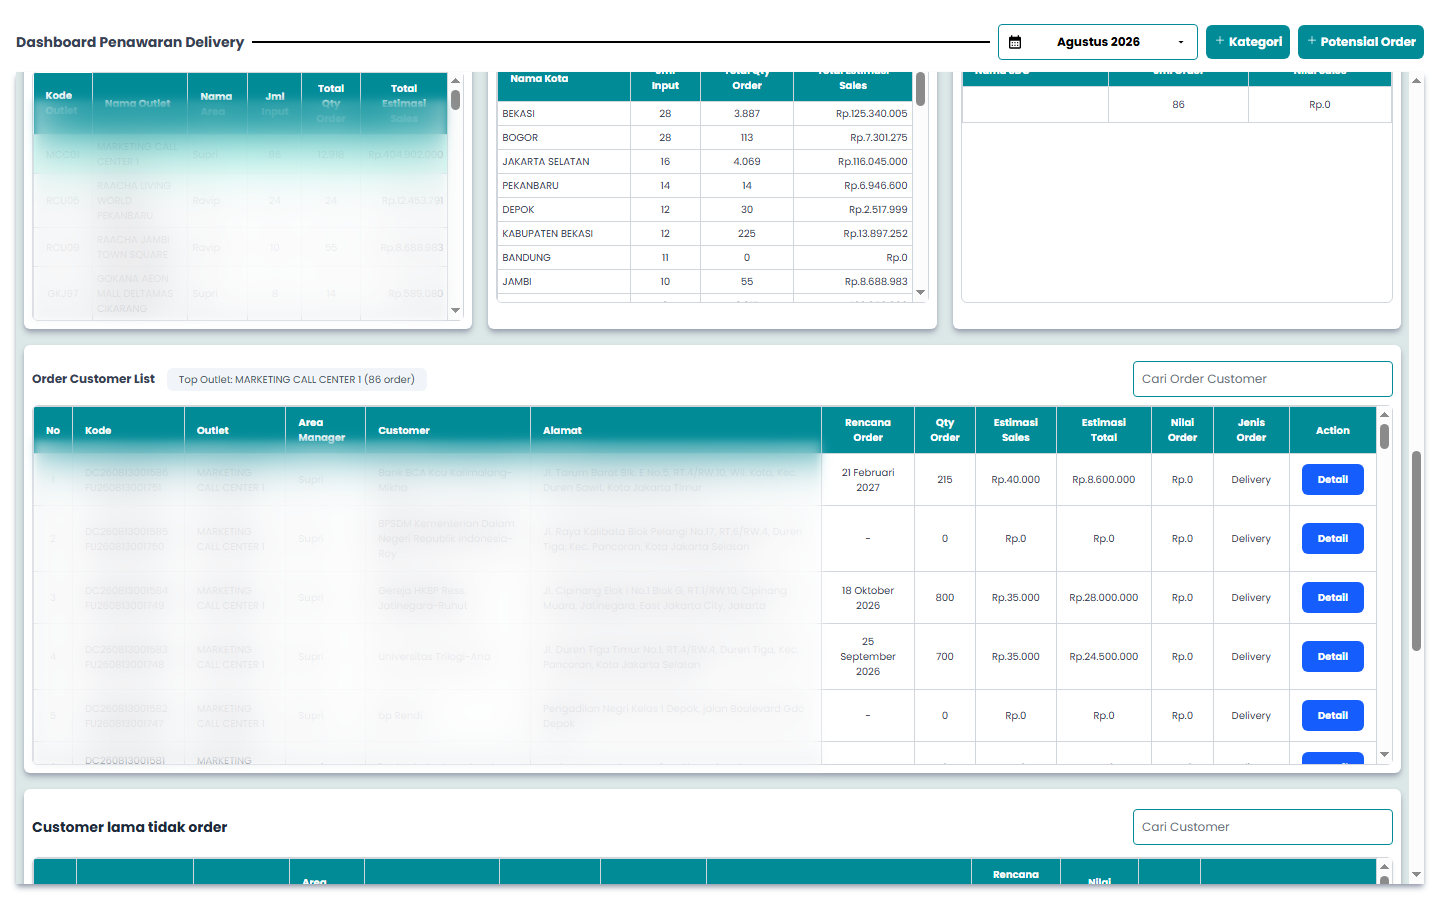
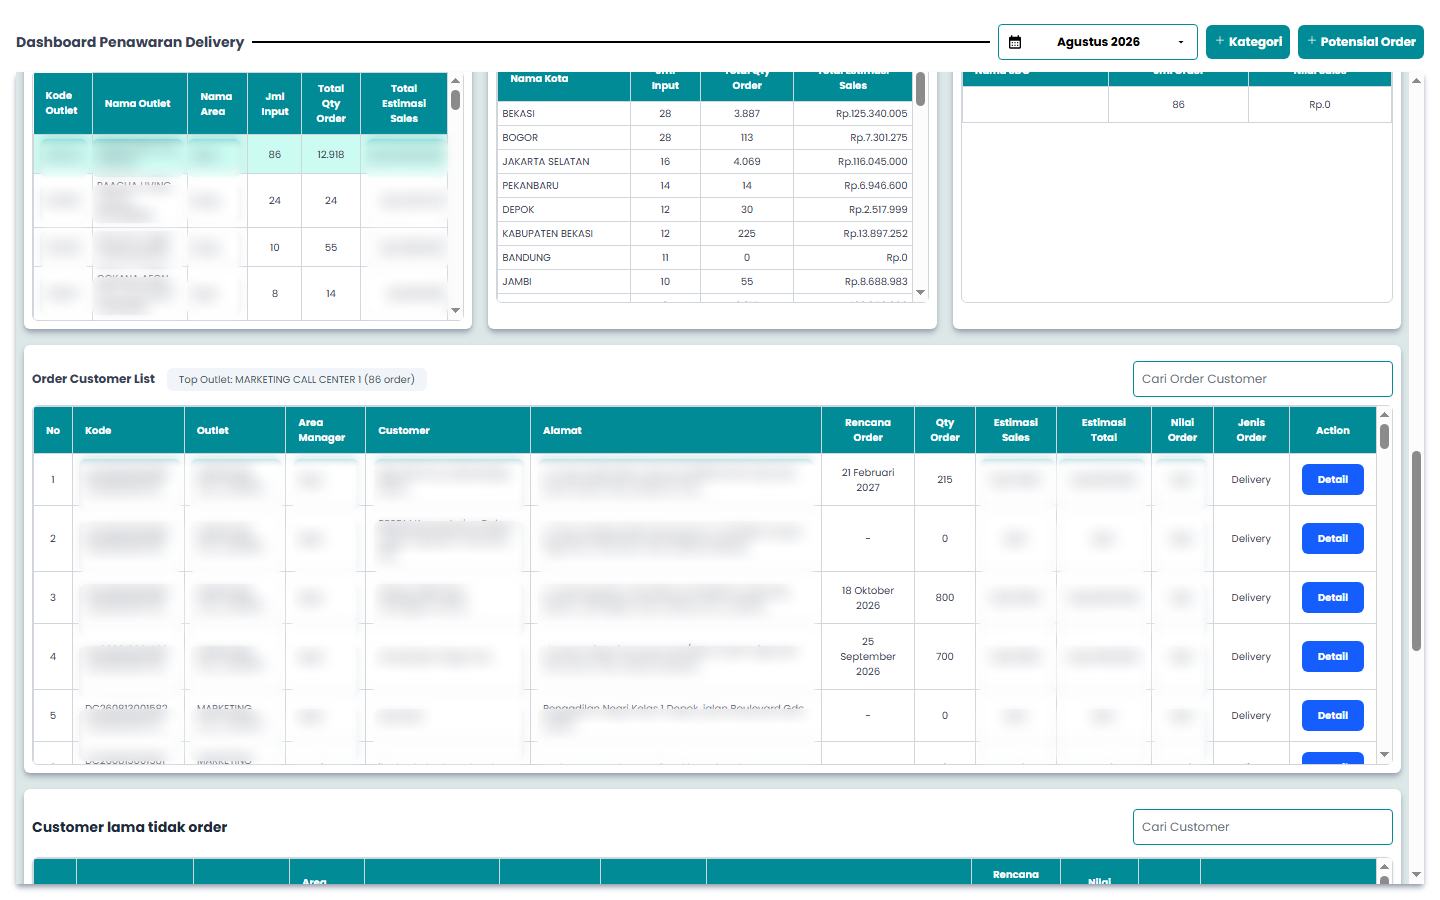
fix: refine portfolio screenshot cloud redaction

diff --git a/scripts/cloud-redact-screenshots.js b/scripts/cloud-redact-screenshots.js
@@ -1,0 +1,322 @@
+#!/usr/bin/env node
+
+/* eslint-disable @typescript-eslint/no-require-imports */
+const fs = require("fs");
+const path = require("path");
+const sharp = require("sharp");
+
+const inputDir = process.argv[2];
+const outputDir = process.argv[3];
+const requestedOutputs = new Set(process.argv.slice(4));
+
+if (!inputDir || !outputDir) {
+  console.error(
+    "Usage: node scripts/cloud-redact-screenshots.js INPUT_DIR OUTPUT_DIR [OUTPUT.png ...]",
+  );
+  process.exit(2);
+}
+
+const box = (x, y, width, height) => ({ x, y, width, height });
+
+function repeatRows(rowTops, columns, rowHeight) {
+  return rowTops.flatMap((y, index) => {
+    const height = Array.isArray(rowHeight) ? rowHeight[index] : rowHeight;
+    return columns.map(([x, width, topInset = 7, bottomInset = 7]) =>
+      box(x, y + topInset, width, height - topInset - bottomInset),
+    );
+  });
+}
+
+function textLines(x, width, lines, height = 13) {
+  return lines.map((y) => box(x, y, width, height));
+}
+
+const jobs = [
+  {
+    input: "po-dashboard.png",
+    output: "pm12-po-dashboard.png",
+    regions: [
+      ...textLines(126, 134, [84], 25),
+      ...textLines(469, 140, [84], 25),
+      ...textLines(807, 148, [84], 25),
+      ...textLines(1144, 122, [84], 25),
+      ...repeatRows(
+        [212, 257, 301, 346, 390, 435, 480, 525, 570, 615],
+        [
+          [126, 98, 4, 8],
+          [238, 355, 3, 3],
+          [630, 78, 4, 7],
+          [1028, 160, 5, 8],
+        ],
+        45,
+      ),
+    ],
+  },
+  {
+    input: "po-list.png",
+    output: "pm12-po-list.png",
+    regions: [
+      ...textLines(128, 134, [84], 25),
+      ...textLines(469, 138, [84], 25),
+      ...textLines(1142, 112, [84], 25),
+      ...repeatRows(
+        [231, 276, 321, 366, 411, 455, 500, 545, 590, 635],
+        [
+          [137, 108, 4, 8],
+          [260, 386, 3, 3],
+          [704, 88, 4, 7],
+          [1234, 182, 3, 3],
+        ],
+        45,
+      ),
+    ],
+  },
+  {
+    input: "po-log-approval.png",
+    output: "pm12-po-log-approval.png",
+    regions: [
+      ...textLines(126, 134, [84], 25),
+      ...textLines(467, 134, [84], 25),
+      ...textLines(794, 146, [84], 25),
+      ...repeatRows(
+        [243, 326, 409, 492, 575, 659, 700, 783, 843],
+        [
+          [170, 60, 4, 4],
+          [242, 300, 4, 4],
+          [560, 70, 4, 4],
+          [862, 140, 4, 4],
+          [1010, 137, 4, 4],
+          [1304, 100, 4, 4],
+        ],
+        [82, 82, 82, 82, 82, 40, 82, 59, 57],
+      ),
+    ],
+  },
+  {
+    input: "crm-dashboard-overview.png",
+    output: "pm13-crm-dashboard.png",
+    regions: [
+      ...repeatRows(
+        [105, 201, 297],
+        [
+          [220, 105, 7, 7],
+          [336, 100, 7, 7],
+          [543, 274, 7, 7],
+          [829, 86, 7, 7],
+        ],
+        94,
+      ),
+      ...repeatRows(
+        [568, 618, 666, 714],
+        [
+          [40, 48, 5, 5],
+          [92, 92, 5, 5],
+          [187, 54, 5, 5],
+          [366, 82, 5, 5],
+        ],
+        48,
+      ),
+      ...repeatRows(
+        [548, 572, 596, 620, 644, 668, 692, 716],
+        [[832, 82, 3, 3]],
+        24,
+      ),
+    ],
+  },
+  {
+    input: "crm-table1.png",
+    output: "pm13-crm-table.png",
+    regions: [
+      ...repeatRows(
+        [105, 201, 297],
+        [
+          [220, 105, 7, 7],
+          [336, 100, 7, 7],
+          [543, 274, 7, 7],
+          [829, 86, 7, 7],
+        ],
+        94,
+      ),
+      ...repeatRows(
+        [568, 618, 666, 714],
+        [
+          [40, 48, 5, 5],
+          [92, 92, 5, 5],
+          [187, 54, 5, 5],
+          [366, 82, 5, 5],
+        ],
+        48,
+      ),
+      ...repeatRows(
+        [548, 572, 596, 620, 644, 668, 692, 716],
+        [[832, 82, 3, 3]],
+        24,
+      ),
+    ],
+  },
+  {
+    input: "crm-forecast.png",
+    output: "pm13-crm-forecast.png",
+    regions: [
+      ...repeatRows(
+        [725, 821],
+        [
+          [220, 105, 7, 7],
+          [336, 100, 7, 7],
+          [543, 274, 7, 7],
+          [829, 86, 7, 7],
+        ],
+        94,
+      ),
+    ],
+  },
+  {
+    input: "crm-top-outlet.png",
+    output: "pm13-crm-top-outlet.png",
+    regions: [
+      ...repeatRows(
+        [135, 181, 227, 273],
+        [
+          [40, 48, 4, 4],
+          [92, 92, 4, 4],
+          [187, 54, 4, 4],
+          [366, 82, 4, 4],
+        ],
+        46,
+      ),
+      ...repeatRows(
+        [454, 516, 579, 641, 704],
+        [
+          [79, 102, 5, 5],
+          [190, 92, 5, 5],
+          [293, 66, 5, 5],
+          [374, 150, 5, 5],
+          [538, 276, 5, 5],
+          [980, 75, 5, 5],
+          [1058, 88, 5, 5],
+          [1155, 52, 5, 5],
+        ],
+        62,
+      ),
+    ],
+  },
+  {
+    input: "lnd-dashboard.png",
+    output: "pm14-lnd-dashboard.png",
+    regions: [
+      ...repeatRows(
+        [122, 210, 284],
+        [
+          [24, 103, 4, 4],
+          [139, 83, 4, 4],
+          [234, 217, 4, 4],
+          [466, 158, 4, 4],
+          [704, 132, 4, 4],
+        ],
+        [87, 73, 87],
+      ),
+    ],
+  },
+  {
+    input: "posevt-dashboard.png",
+    output: "pm15-posevt-dashboard.png",
+    regions: [
+      box(100, 14, 450, 28),
+      box(104, 100, 310, 59),
+      ...textLines(123, 275, [195, 227, 259, 291, 323, 355], 21),
+      ...textLines(685, 61, [195, 227, 259, 291, 323, 355], 21),
+      ...textLines(1270, 137, [90, 121, 151, 181, 211], 27),
+      ...textLines(136, 187, [489, 576, 610, 644, 678], 22),
+      ...textLines(347, 64, [489, 576, 610, 644, 678], 22),
+      ...textLines(425, 63, [489, 576, 610, 644, 678], 22),
+      ...textLines(500, 78, [489, 576, 610, 644, 678], 22),
+      ...textLines(590, 77, [489, 576, 610, 644, 678], 22),
+      ...textLines(678, 68, [489, 576, 610, 644, 678], 22),
+      ...textLines(754, 176, [438, 472, 505, 539, 576, 610, 644, 678], 22),
+      ...textLines(938, 82, [438, 472, 505, 539, 576, 610, 644, 678], 22),
+      ...textLines(1033, 70, [438, 472, 505, 539, 576, 610, 644, 678], 22),
+      ...textLines(1109, 112, [438, 472, 505, 539, 576, 610, 644, 678], 22),
+      ...textLines(1239, 166, [489, 576, 610, 644, 678], 22),
+    ],
+  },
+];
+
+async function makeCloudRegion(inputPath, region, imageWidth, imageHeight) {
+  const feather = 5;
+  const padding = feather + 2;
+  const left = Math.max(0, Math.floor(region.x - padding));
+  const top = Math.max(0, Math.floor(region.y - padding));
+  const right = Math.min(imageWidth, Math.ceil(region.x + region.width + padding));
+  const bottom = Math.min(imageHeight, Math.ceil(region.y + region.height + padding));
+  const width = right - left;
+  const height = bottom - top;
+  const smallWidth = 1;
+  const smallHeight = 1;
+
+  const blurred = await sharp(inputPath)
+    .extract({ left, top, width, height })
+    .resize(smallWidth, smallHeight, { kernel: sharp.kernel.lanczos3 })
+    .resize(width, height, { kernel: sharp.kernel.nearest })
+    .blur(8)
+    .ensureAlpha()
+    .png()
+    .toBuffer();
+
+  const inset = padding;
+  const maskSvg = Buffer.from(
+    `<svg width="${width}" height="${height}" xmlns="http://www.w3.org/2000/svg">` +
+      `<rect x="${inset}" y="${inset}" width="${Math.max(1, width - inset * 2)}" ` +
+      `height="${Math.max(1, height - inset * 2)}" rx="7" fill="white"/>` +
+      `</svg>`,
+  );
+  const featheredMask = await sharp(maskSvg).blur(feather).png().toBuffer();
+  const mask = await sharp(featheredMask)
+    .composite([{ input: maskSvg, blend: "over" }])
+    .png()
+    .toBuffer();
+  const cloud = await sharp(blurred)
+    .composite([{ input: mask, blend: "dest-in" }])
+    .png()
+    .toBuffer();
+
+  return { input: cloud, left, top };
+}
+
+async function processJob(job) {
+  const inputPath = path.join(inputDir, job.input);
+  const outputPath = path.join(outputDir, job.output);
+  if (!fs.existsSync(inputPath)) {
+    throw new Error(`Missing input: ${inputPath}`);
+  }
+
+  const metadata = await sharp(inputPath).metadata();
+  if (metadata.width !== 1440 || metadata.height !== 900) {
+    throw new Error(`${job.input} must be 1440x900, got ${metadata.width}x${metadata.height}`);
+  }
+
+  const composites = [];
+  for (const region of job.regions) {
+    composites.push(await makeCloudRegion(inputPath, region, metadata.width, metadata.height));
+  }
+
+  await sharp(inputPath).composite(composites).png().toFile(outputPath);
+  console.log(`${job.output}: ${job.regions.length} cloud regions`);
+}
+
+async function main() {
+  fs.mkdirSync(outputDir, { recursive: true });
+  const selectedJobs = requestedOutputs.size
+    ? jobs.filter((job) => requestedOutputs.has(job.output))
+    : jobs;
+  if (selectedJobs.length === 0) {
+    throw new Error("No matching output names were requested");
+  }
+  for (const job of selectedJobs) {
+    await processJob(job);
+  }
+}
+
+main().catch((error) => {
+  console.error(error);
+  process.exit(1);
+});
